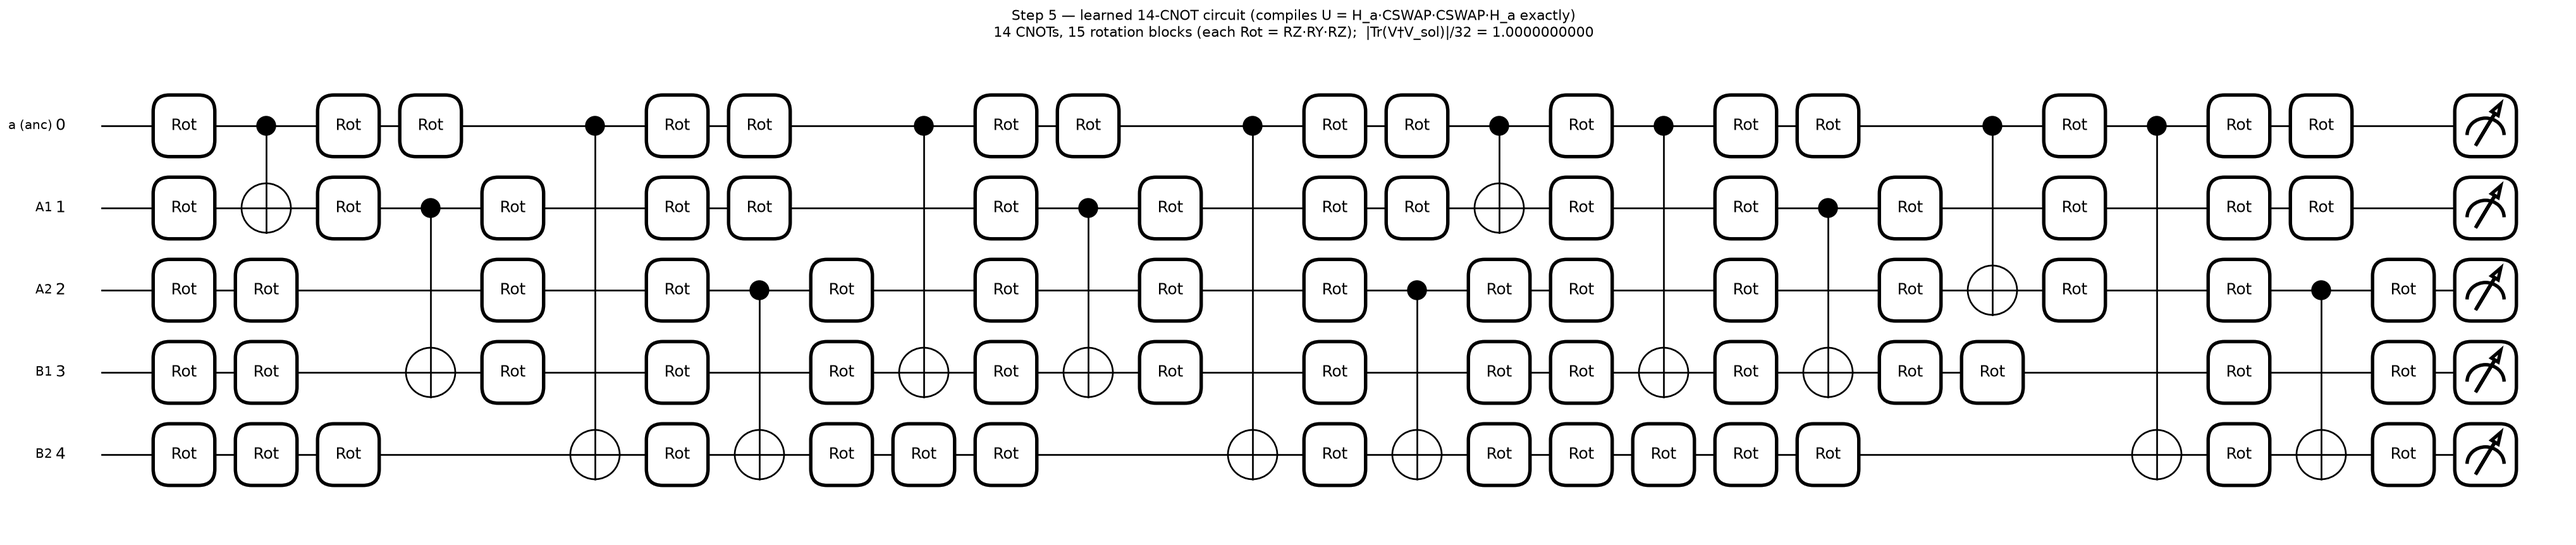
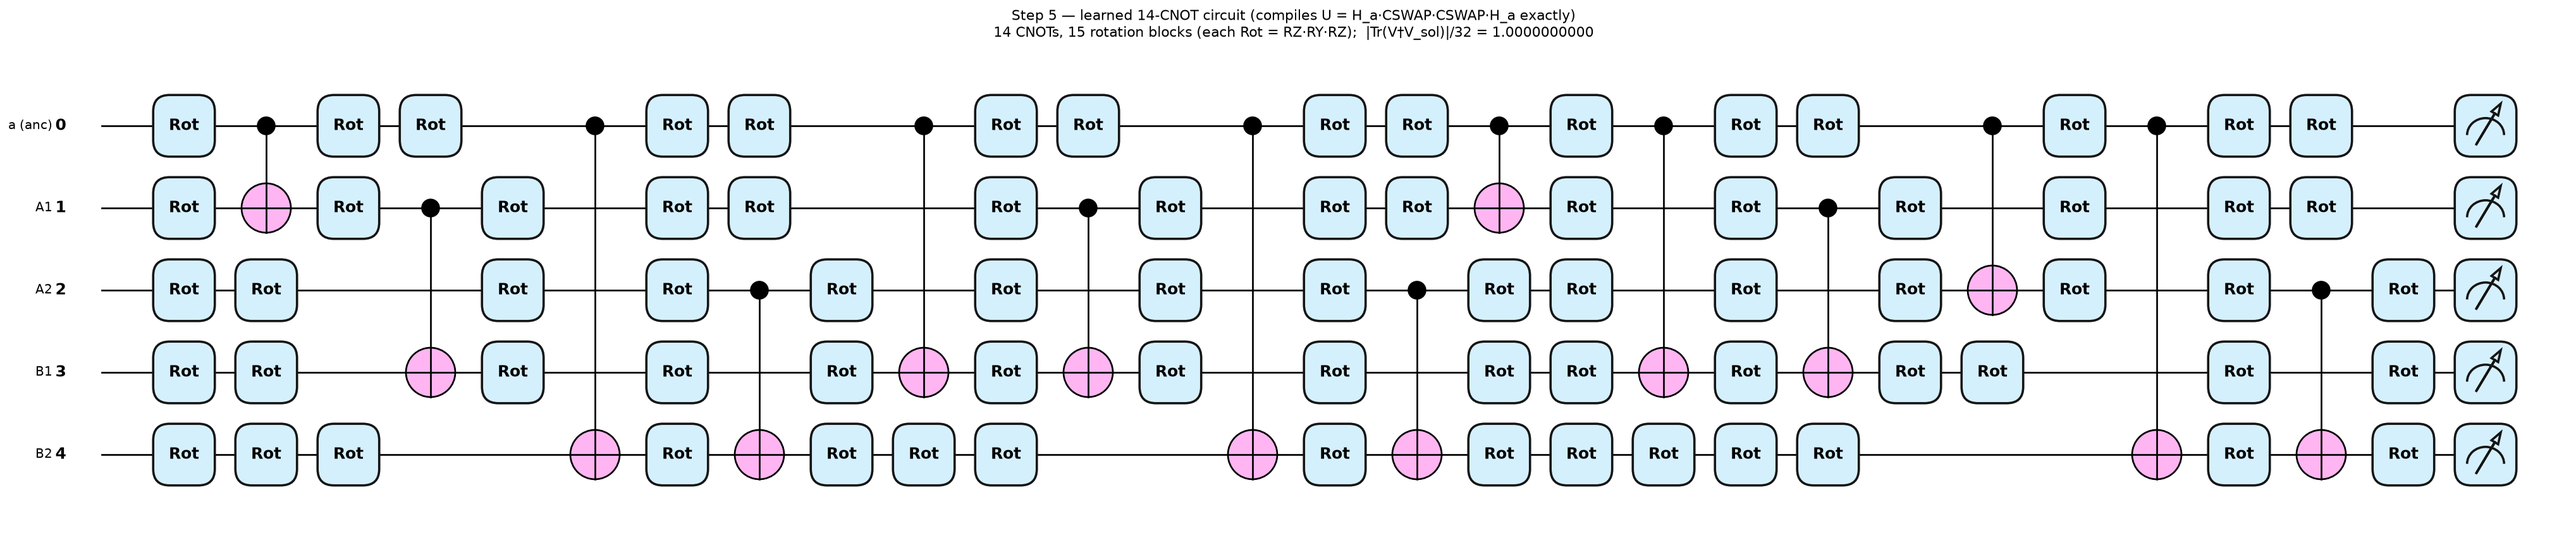
Step-5 drawings: barriers + the pennylane drawer style used by Steps 3/4
draw_pqc_5abc.py was the only draw_*.py that did not pass style="pennylane" to
qml.draw_mpl, so its three figures came out in the bare matplotlib black/white
while every other circuit figure in the repo (Steps 3 and 4 included) used the
PennyLane palette.  All three now use it.

circuit_pqc_5a_raw.png also gains stage barriers and a multi-row layout:

  * _build_raw_qnode takes barriers=True and emits ONE qml.Barrier at each
    rotation-layer <-> CNOT boundary (never two in a row), so the drawing reads
    as the alternating structure it is: L_0 | C_1 | L_1 | C_2 | ...  The
    barriers are only_visual=True; checked that they leave the unitary bit
    identical (||dU|| = 0.0) and the drawn circuit still reproduces U_PQEC with
    overlap 1.000000000000.
  * the primitive form is ~120 columns wide, which made the old single-row PNG
    11323 x 751 px (15:1) and unreadable.  draw_mpl's max_length=30 wraps it,
    returning one (fig, ax) per row; the rows are rendered and stacked into a
    single image, each labelled "part k of N".  Result is 3798 x 3118 px.
  * title enlarged to match the figure width.

Content is unchanged: PQC_CIRCUITS_FOR_ANALYSIS.md regenerates byte-identical,
and both merged drawings still verify at |Tr(V*V_sol)|/32 = 1.000000000000.

diff --git a/draw_pqc_5abc.py b/draw_pqc_5abc.py
@@ -20,7 +20,9 @@ Outputs:
 
 Run:  python draw_pqc_5abc.py
 """
+import io
 import json
+
 import numpy as np
 import pennylane as qml
 import matplotlib.pyplot as plt
@@ -90,7 +92,7 @@ def draw(mask, params, fname, title):
     blocks, cnots = merged_circuit(mask, params)
     ov = _verify(blocks, cnots, mask, params)
     fig, ax = qml.draw_mpl(_build_qnode(blocks, cnots), wire_order=range(5),
-                           show_all_wires=True)()
+                           show_all_wires=True, style="pennylane")()
     for i, lab in WIRE_LABELS.items():
         ax.text(-1.6, i, lab, ha="right", va="center", fontsize=11)
     ax.set_title(f"{title}\n{len(cnots)} CNOTs, {len(cnots)+1} rotation blocks "
@@ -104,35 +106,83 @@ def draw(mask, params, fname, title):
 # ---------------------------------------------------------------------------
 # analytic spec (exact primitive gate list + merged SU(2) blocks) for GPT
 # ---------------------------------------------------------------------------
-def _build_raw_qnode(mask, params):
-    """QNode of the EXACT ansatz: RX/RY/RZ per wire + CNOTs, no merging."""
+def _build_raw_qnode(mask, params, barriers=False):
+    """QNode of the EXACT ansatz: RX/RY/RZ per wire + CNOTs, no merging.
+
+    With `barriers=True` a visual-only barrier is placed on both sides of every
+    CNOT, so the drawing reads as the alternating structure it really is:
+    rotation layer L_0 | CNOT C_1 | L_1 | C_2 | ...  The barriers carry
+    `only_visual=True` and therefore change nothing about the circuit.
+    """
     ops = ansatz_masked(mask)
     gate = {"rx": qml.RX, "ry": qml.RY, "rz": qml.RZ}
 
     def circuit():
+        prev = None
         for op in ops:
+            kind_now = "g" if op[0] == "g" else "cx"
+            # one barrier at each rotation-layer <-> CNOT boundary, never two in a row
+            if barriers and prev is not None and kind_now != prev:
+                qml.Barrier(wires=range(5), only_visual=True)
             if op[0] == "g":
                 _, kind, w, p = op
                 gate[kind](params[p], wires=w)
             else:
                 qml.CNOT(wires=[op[1], op[2]])
+            prev = kind_now
         return qml.state()
     return circuit
 
 
-def draw_raw(mask, params, fname, title):
-    """Draw the exact RX-RY-RZ + CNOT ansatz (all rotation layers kept)."""
+def draw_raw(mask, params, fname, title, max_length=30, dpi=110):
+    """Draw the exact RX-RY-RZ + CNOT ansatz (all rotation layers kept).
+
+    The primitive form is ~120 columns wide, so it is wrapped into several rows
+    with `max_length`.  PennyLane returns one (fig, ax) per row; we render each
+    row and stack them into a single image, which keeps the drawer's own
+    rendering (`style="pennylane"`, matching the Step-3 / Step-4 figures).
+    """
     ncx = sum(mask)
-    fig, ax = qml.draw_mpl(_build_raw_qnode(mask, params), wire_order=range(5),
-                           show_all_wires=True)()
-    for i, lab in WIRE_LABELS.items():
-        ax.text(-2.2, i, lab, ha="right", va="center", fontsize=11)
-    ax.set_title(f"{title}\n{ncx} CNOTs; exact ansatz = initial RX-RY-RZ layer + a full "
-                 f"RX-RY-RZ layer after every CNOT slot (19 rotation layers, 285 params)",
-                 fontsize=12)
-    fig.savefig(fname, dpi=110, bbox_inches="tight")
+    rows = qml.draw_mpl(_build_raw_qnode(mask, params, barriers=True),
+                        wire_order=range(5), show_all_wires=True,
+                        style="pennylane", max_length=max_length)()
+    if not isinstance(rows, list):
+        rows = [rows]
+
+    imgs = []
+    for k, (f, a) in enumerate(rows):
+        for i, lab in WIRE_LABELS.items():
+            a.text(-2.4, i, lab, ha="right", va="center", fontsize=11)
+        a.text(-2.4, -0.9, f"part {k + 1} of {len(rows)}", ha="right", va="center",
+               fontsize=10, style="italic", color="0.35")
+        buf = io.BytesIO()
+        f.savefig(buf, format="png", dpi=dpi, bbox_inches="tight",
+                  facecolor="white")
+        plt.close(f)
+        buf.seek(0)
+        imgs.append(plt.imread(buf))
+
+    gap = 24                                        # px between rows
+    W = max(im.shape[1] for im in imgs)
+    head = 300                                      # px reserved for the title
+    H = head + sum(im.shape[0] for im in imgs) + gap * (len(imgs) - 1)
+    fig = plt.figure(figsize=(W / dpi, H / dpi), dpi=dpi, facecolor="white")
+    y = H - head
+    for im in imgs:
+        h, w = im.shape[0], im.shape[1]
+        ax = fig.add_axes([0.0, (y - h) / H, w / W, h / H])
+        ax.imshow(im)
+        ax.axis("off")
+        y -= h + gap
+    fig.text(0.5, 1 - 0.28 * head / H,
+             f"{title}\n{ncx} CNOTs; exact ansatz = initial RX-RY-RZ layer + a full "
+             f"RX-RY-RZ layer after every CNOT slot (19 rotation layers, 285 params).\n"
+             f"Barriers are visual only: they separate each rotation layer from the "
+             f"CNOT that follows it.  Read the parts top to bottom.",
+             ha="center", va="center", fontsize=22, linespacing=1.6)
+    fig.savefig(fname, dpi=dpi, bbox_inches="tight", facecolor="white")
     plt.close(fig)
-    print(f"  wrote {fname}")
+    print(f"  wrote {fname}  ({len(rows)} rows)")
 
 
 def _primitive_lines(mask, params):
